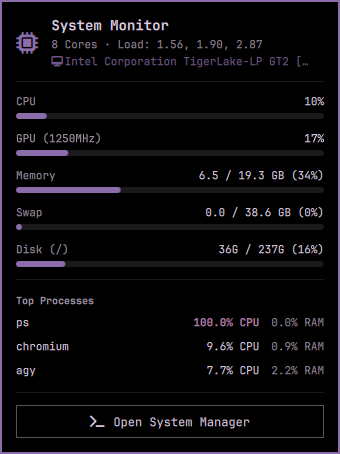
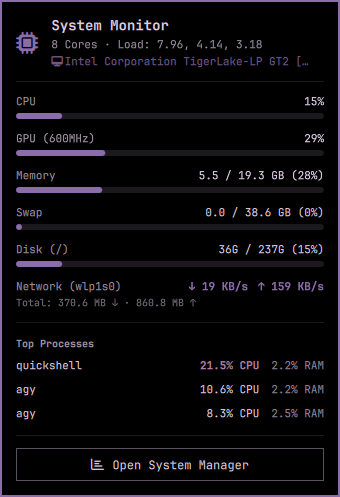
Add real-time network monitoring and update preview

diff --git a/Panel.qml b/Panel.qml
@@ -27,6 +27,31 @@ Panel {
   property var availableTops: ["btop"]
   readonly property var advancedTops: availableTops.filter(function(t) { return t !== "top" || availableTops.length === 1 })
 
+  property string netInterface: ""
+  property real prevNetRx: 0
+  property real prevNetTx: 0
+  property real prevNetTime: 0
+  property string netDownStr: "0 B/s"
+  property string netUpStr: "0 B/s"
+  property string netRxTotalStr: "0 B"
+  property string netTxTotalStr: "0 B"
+
+  function formatSpeed(bytesPerSec) {
+    if (!bytesPerSec || bytesPerSec <= 0) return "0 B/s"
+    if (bytesPerSec >= 1073741824) return (bytesPerSec / 1073741824).toFixed(1) + " GB/s"
+    if (bytesPerSec >= 1048576) return (bytesPerSec / 1048576).toFixed(1) + " MB/s"
+    if (bytesPerSec >= 1024) return (bytesPerSec / 1024).toFixed(0) + " KB/s"
+    return Math.round(bytesPerSec) + " B/s"
+  }
+
+  function formatBytes(bytes) {
+    if (!bytes || bytes <= 0) return "0 B"
+    if (bytes >= 1073741824) return (bytes / 1073741824).toFixed(1) + " GB"
+    if (bytes >= 1048576) return (bytes / 1048576).toFixed(1) + " MB"
+    if (bytes >= 1024) return (bytes / 1024).toFixed(0) + " KB"
+    return Math.round(bytes) + " B"
+  }
+
   function togglePercentage() {
     showPercentage = !showPercentage
     root.settings = Object.assign({}, root.settings, { showPercentage: showPercentage })
@@ -163,6 +188,25 @@ Panel {
         prevGpuTime = data.gpu_timestamp_ms
       }
 
+      netInterface = data.net_iface || ""
+      if (data.net_rx_bytes !== undefined && data.net_tx_bytes !== undefined && data.gpu_timestamp_ms !== undefined) {
+        if (prevNetTime > 0 && data.gpu_timestamp_ms > prevNetTime) {
+          var dtNet = (data.gpu_timestamp_ms - prevNetTime) / 1000.0
+          if (dtNet > 0) {
+            var dRx = Math.max(0, data.net_rx_bytes - prevNetRx)
+            var dTx = Math.max(0, data.net_tx_bytes - prevNetTx)
+            netDownStr = root.formatSpeed(dRx / dtNet)
+            netUpStr = root.formatSpeed(dTx / dtNet)
+          }
+        }
+        prevNetRx = data.net_rx_bytes
+        prevNetTx = data.net_tx_bytes
+        prevNetTime = data.gpu_timestamp_ms
+
+        netRxTotalStr = root.formatBytes(data.net_rx_bytes)
+        netTxTotalStr = root.formatBytes(data.net_tx_bytes)
+      }
+
       if (data.available_tops && data.available_tops.length > 0) {
         availableTops = data.available_tops
       }
@@ -222,7 +266,7 @@ Panel {
     text: "\uf2db"
     labelText: root.showPercentage && !root.vertical ? (root.cpuPercent + "%") : ""
     slotSize: root.showPercentage && !root.vertical ? Style.bar.iconSlot * 2 : Style.bar.iconSlot
-    tooltipText: strings.t("sysmon.tooltip").arg(root.cpuPercent).arg(root.gpuPercent).arg(root.memPercent) + " (" + root.memUsedGb + "G / " + root.memTotalGb + "G)"
+    tooltipText: strings.t("sysmon.tooltip").arg(root.cpuPercent).arg(root.gpuPercent).arg(root.memPercent) + " (" + root.memUsedGb + "G / " + root.memTotalGb + "G)\n↓ " + root.netDownStr + "  ↑ " + root.netUpStr
     active: root.opened || root.cpuPercent >= 85 || root.gpuPercent >= 85
     activeColor: (root.cpuPercent >= 85 || root.gpuPercent >= 85) ? root.urgentColor : root.accentColor
     onPressed: function(b) {
@@ -347,6 +391,59 @@ Panel {
           valueText: root.diskUsed + " / " + root.diskTotal + " (" + root.diskPercent + "%)"
           fraction: root.diskPercent / 100.0
           urgentThreshold: 0.90
+        }
+
+        // Network Monitor Row
+        Column {
+          width: parent.width
+          spacing: Style.space(2)
+
+          Row {
+            width: parent.width
+            Text {
+              textFormat: Text.PlainText
+              text: strings.t("sysmon.network") + (root.netInterface ? (" (" + root.netInterface + ")") : "")
+              color: root.foreground
+              opacity: 0.7
+              font.family: root.fontFamily
+              font.pixelSize: Style.font.bodySmall
+              anchors.verticalCenter: parent.verticalCenter
+            }
+            Item {
+              width: Math.max(0, parent.width - parent.children[0].implicitWidth - netRatesRow.implicitWidth)
+              height: 1
+            }
+            Row {
+              id: netRatesRow
+              spacing: Style.space(10)
+              anchors.verticalCenter: parent.verticalCenter
+              Text {
+                textFormat: Text.PlainText
+                text: "↓ " + root.netDownStr
+                color: root.accentColor
+                font.family: root.fontFamily
+                font.pixelSize: Style.font.bodySmall
+                font.bold: true
+              }
+              Text {
+                textFormat: Text.PlainText
+                text: "↑ " + root.netUpStr
+                color: root.accentColor
+                font.family: root.fontFamily
+                font.pixelSize: Style.font.bodySmall
+                font.bold: true
+              }
+            }
+          }
+
+          Text {
+            textFormat: Text.PlainText
+            text: strings.t("sysmon.netTotal") + ": " + root.netRxTotalStr + " ↓ · " + root.netTxTotalStr + " ↑"
+            color: root.foreground
+            opacity: 0.5
+            font.family: root.fontFamily
+            font.pixelSize: Style.font.bodySmall - 1
+          }
         }
 
         PanelSeparator { foreground: root.foreground }

diff --git a/README.md b/README.md
@@ -1,12 +1,13 @@
 # System Monitor for Omarchy
 
-Real-time CPU, GPU, memory, and disk monitoring status bar widget and popup panel for the Omarchy shell.
+Real-time CPU, GPU, memory, disk, and network monitoring status bar widget and popup panel for the Omarchy shell.
 
 ![System Monitor Preview](preview.png)
 
 ## Features
 
 - Real-time CPU, GPU (Intel, AMD, NVIDIA), RAM, Swap, and root filesystem usage gauges
+- Real-time Network bandwidth monitoring (download/upload transfer rates & totals)
 - Native GPU telemetry: Intel RC6 residency & clock frequency, AMD DRM sysfs, and NVIDIA SMI
 - Top CPU-consuming processes live view
 - Dynamic system manager launcher: automatically launches `btop`, `htop`, `bottom` (`btm`), or `top` based on what is available
